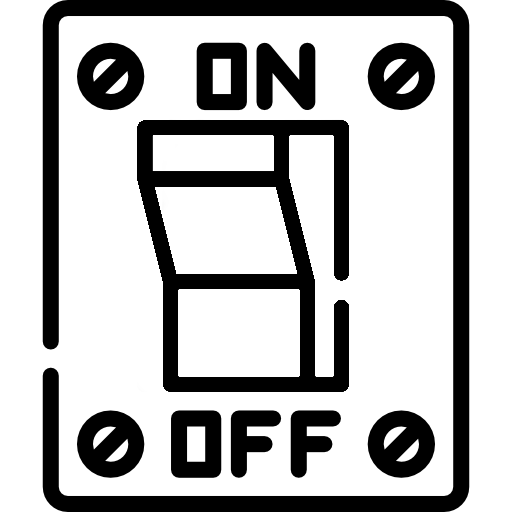
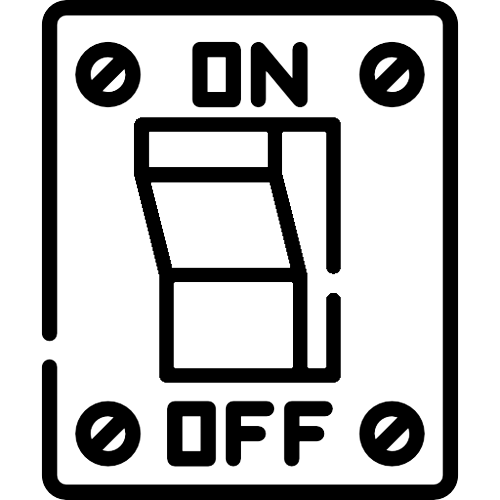
화면 비율 수정 및 깨짐 수정
commit

diff --git a/src/pages/Home.js b/src/pages/Home.js
@@ -3,7 +3,8 @@ import headerStyle from '../resources/css/components/Header.module.css';
 import darkMode from '../resources/css/components/DarkMode.module.css';
 
 import swtichWhiteImg from '../resources/images/switch_white.png';
-import swtichDarkImg from '../resources/images/switch_dark.png';
+import swtichDarkOffImg from '../resources/images/switch_dark_off.png';
+import swtichDarkOnImg from '../resources/images/switch_dark_on.png';
 import light from '../resources/images/light.png';
 import brokenLight from '../resources/images/brokenLight.png';
 
@@ -109,7 +110,7 @@ function Home() {
                 <img 
                     className={headerStyle.switchImg} 
                     onClick={handleToggleDarkMode} 
-                    src={(darkModeClass === 0) ? swtichDarkImg : swtichWhiteImg} 
+                    src={(darkModeClass === 0 && bulbBroken === 0) ? swtichDarkOffImg :((darkModeClass === 0 && bulbBroken === 1) ? swtichDarkOnImg : swtichWhiteImg)} 
                     alt="스위치 이미지"
                 />
             </div>

diff --git a/src/components/Header.js b/src/components/Header.js
@@ -1,7 +1,4 @@
 import headerStyle from '../resources/css/components/Header.module.css';
-import darkMode from '../resources/css/components/DarkMode.module.css';
-import swtichWhiteImg from '../resources/images/switch_white.png';
-import swtichDarkImg from '../resources/images/switch_dark.png';
 
 import { useState } from 'react';
 import React, { useEffect } from 'react';
